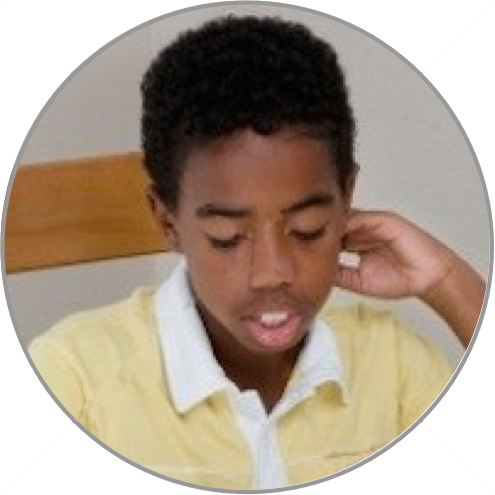
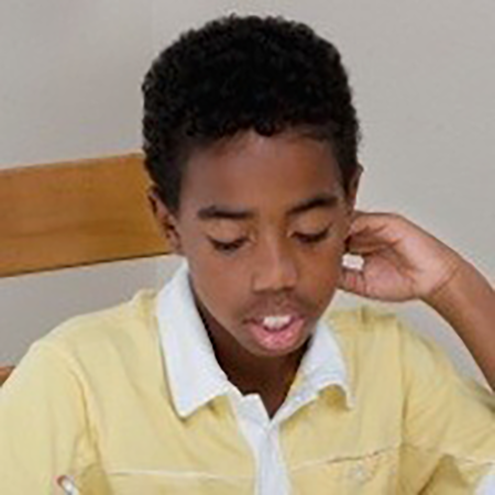
Updated triangle of success images
The student image is low rez. If we have a hight resolution one we should replace it. Image is 495px x 495px. Circle is applied by CSS.

diff --git a/traingle.html b/traingle.html
@@ -30,13 +30,13 @@ j=d.createElement(s),dl=l!='dataLayer'?'&l='+l:'';j.async=true;j.src=
       <div id="triangle-wrapper">
         <div class="row">
           <div id="triangle-upper" class="col-md-12">
-            <a href="javascript:void(0)"><img id="triangle-student" class="img-responsive img-triangle" src="/assets/img/triangle-student.png"></a>
+            <a href="javascript:void(0)"><img id="triangle-student" class="img-responsive img-circle img-triangle" src="/assets/img/triangle-student.png"></a>
           </div>
         </div>
         <div class="row">
           <div id="triangle-lower" class="col-md-12">
-            <a href="javascript:void(0)"><img id="triangle-guide" class="img-responsive pull-left img-triangle" src="/assets/img/triangle-guide.png"></a>
-            <a href="javascript:void(0)"><img id="triangle-parent" class="img-responsive pull-right img-triangle" src="/assets/img/triangle-parent.png"></a>
+            <a href="javascript:void(0)"><img id="triangle-guide" class="img-responsive pull-left img-circle img-triangle" src="/assets/img/triangle-guide.png"></a>
+            <a href="javascript:void(0)"><img id="triangle-parent" class="img-responsive pull-right img-circle  img-triangle" src="/assets/img/triangle-parent.png"></a>
           </div>
         </div>
       </div>

diff --git a/index.html b/index.html
@@ -125,13 +125,13 @@ published: true
       <div id="triangle-wrapper">
         <div class="row">
           <div id="triangle-upper" class="col-md-12">
-            <a href="javascript:void(0)"><img id="triangle-student" class="img-responsive img-triangle" src="assets/img/triangle-student.png"></a>
+            <a href="javascript:void(0)"><img id="triangle-student" class="img-responsive img-circle img-triangle" src="assets/img/triangle-student.png"></a>
           </div>
         </div>
         <div class="row">
           <div id="triangle-lower" class="col-md-12">
-            <a href="javascript:void(0)"><img id="triangle-guide" class="img-responsive pull-left img-triangle" src="assets/img/triangle-guide.png"></a>
-            <a href="javascript:void(0)"><img id="triangle-parent" class="img-responsive pull-right img-triangle" src="assets/img/triangle-parent.png"></a>
+            <a href="javascript:void(0)"><img id="triangle-guide" class="img-responsive pull-left img-circle img-triangle" src="assets/img/triangle-guide.png"></a>
+            <a href="javascript:void(0)"><img id="triangle-parent" class="img-responsive pull-right img-circle img-triangle" src="assets/img/triangle-parent.png"></a>
           </div>
         </div>
       </div>
